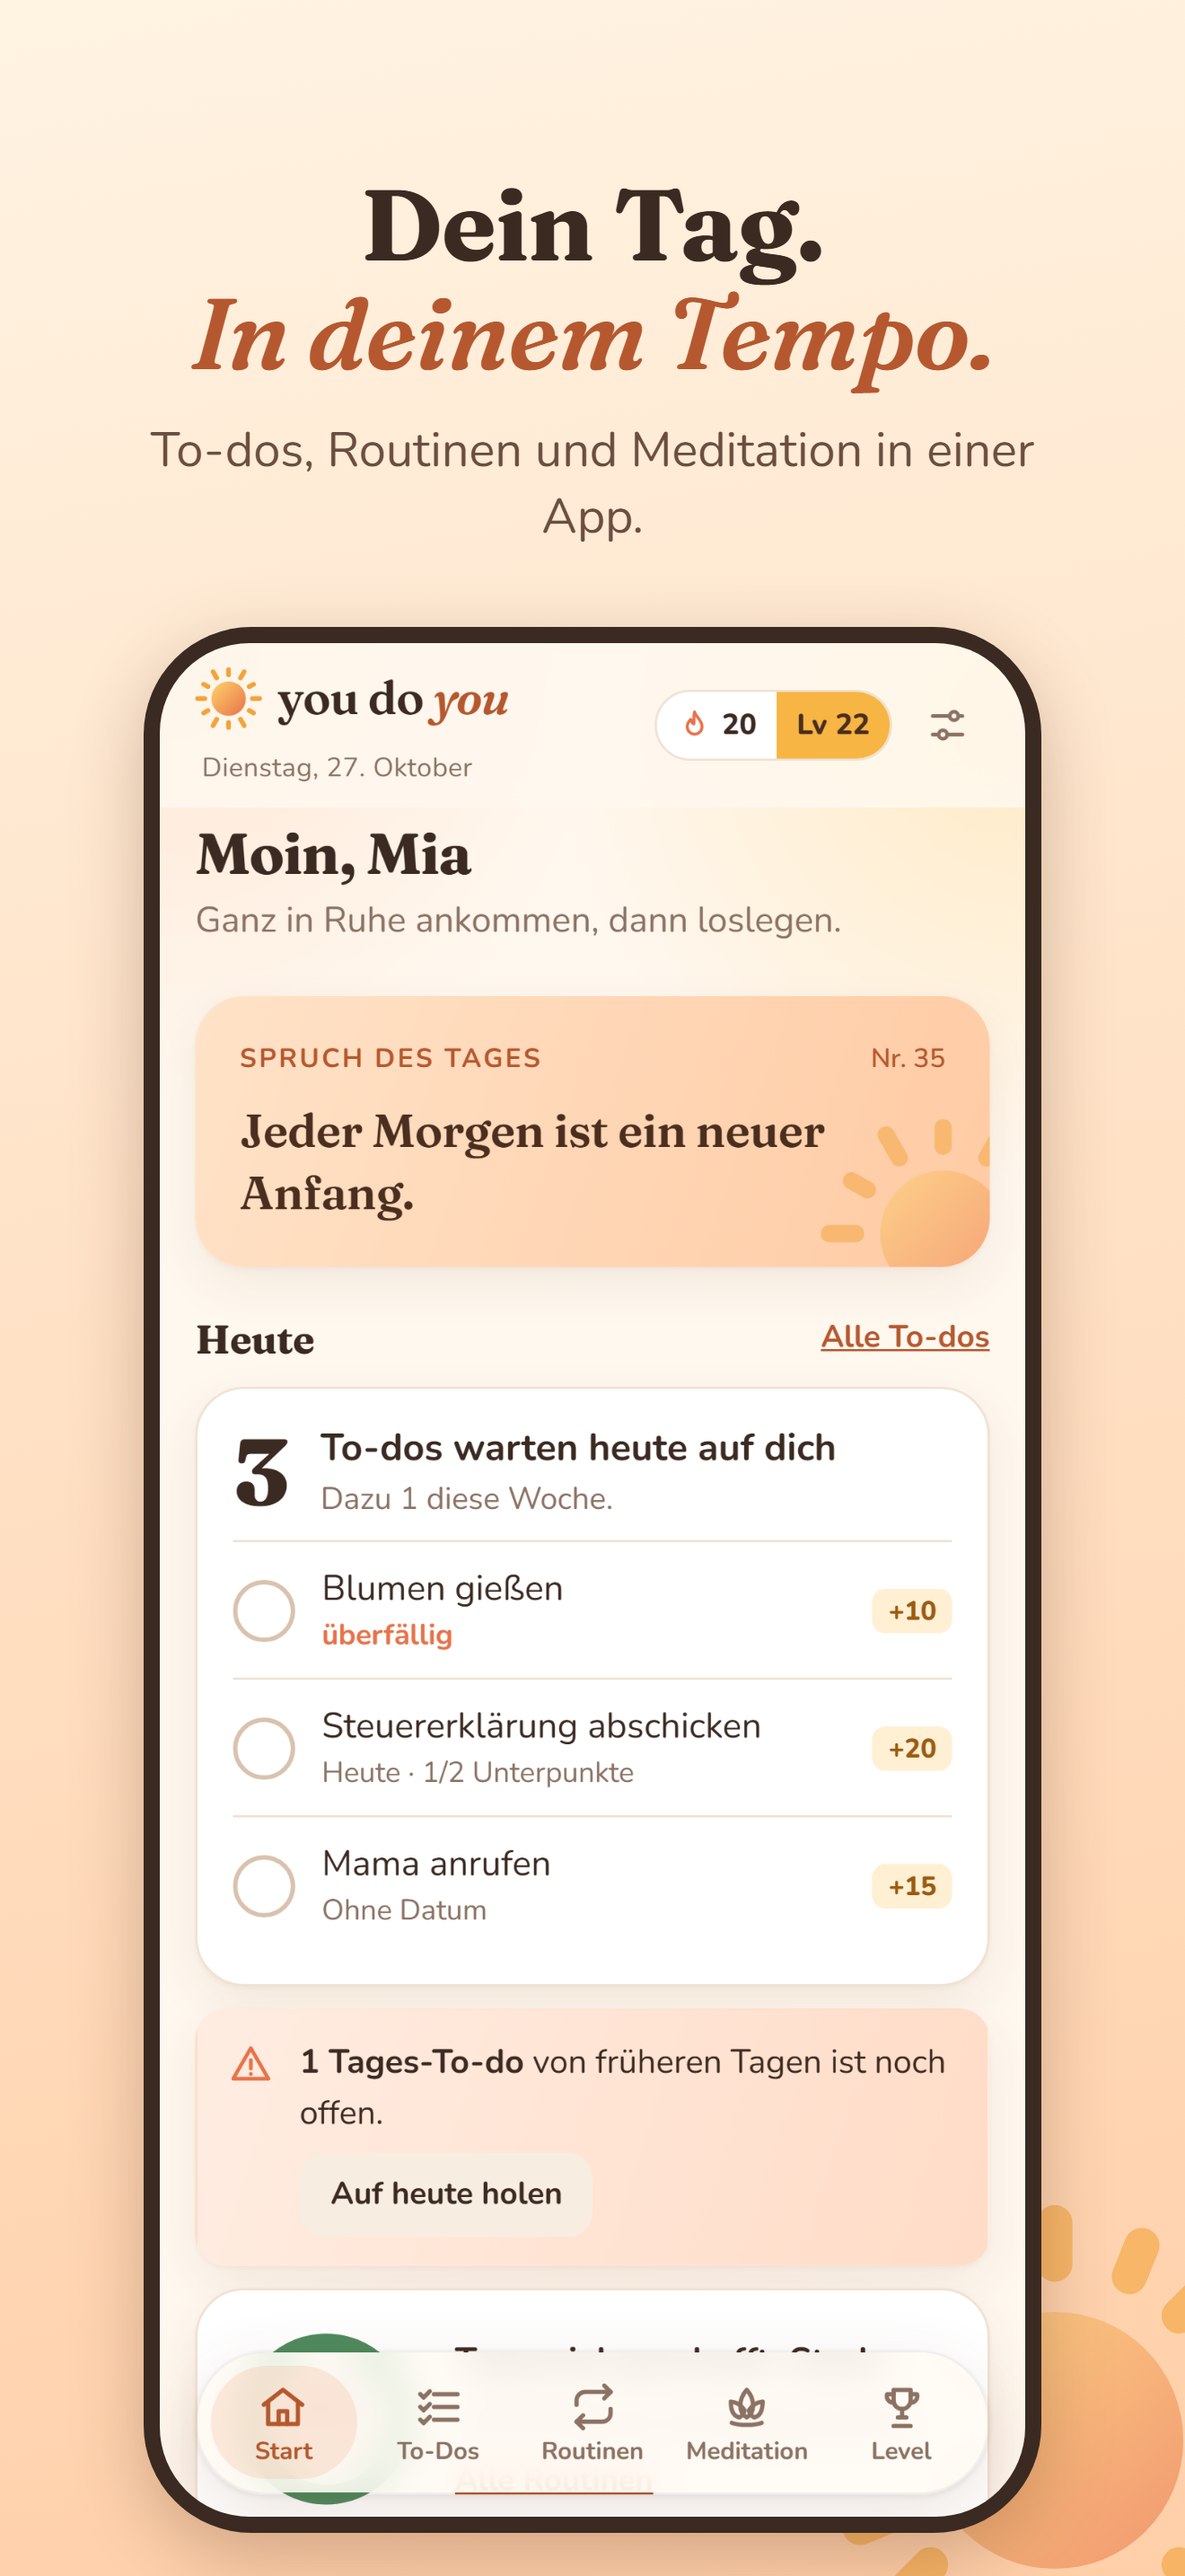
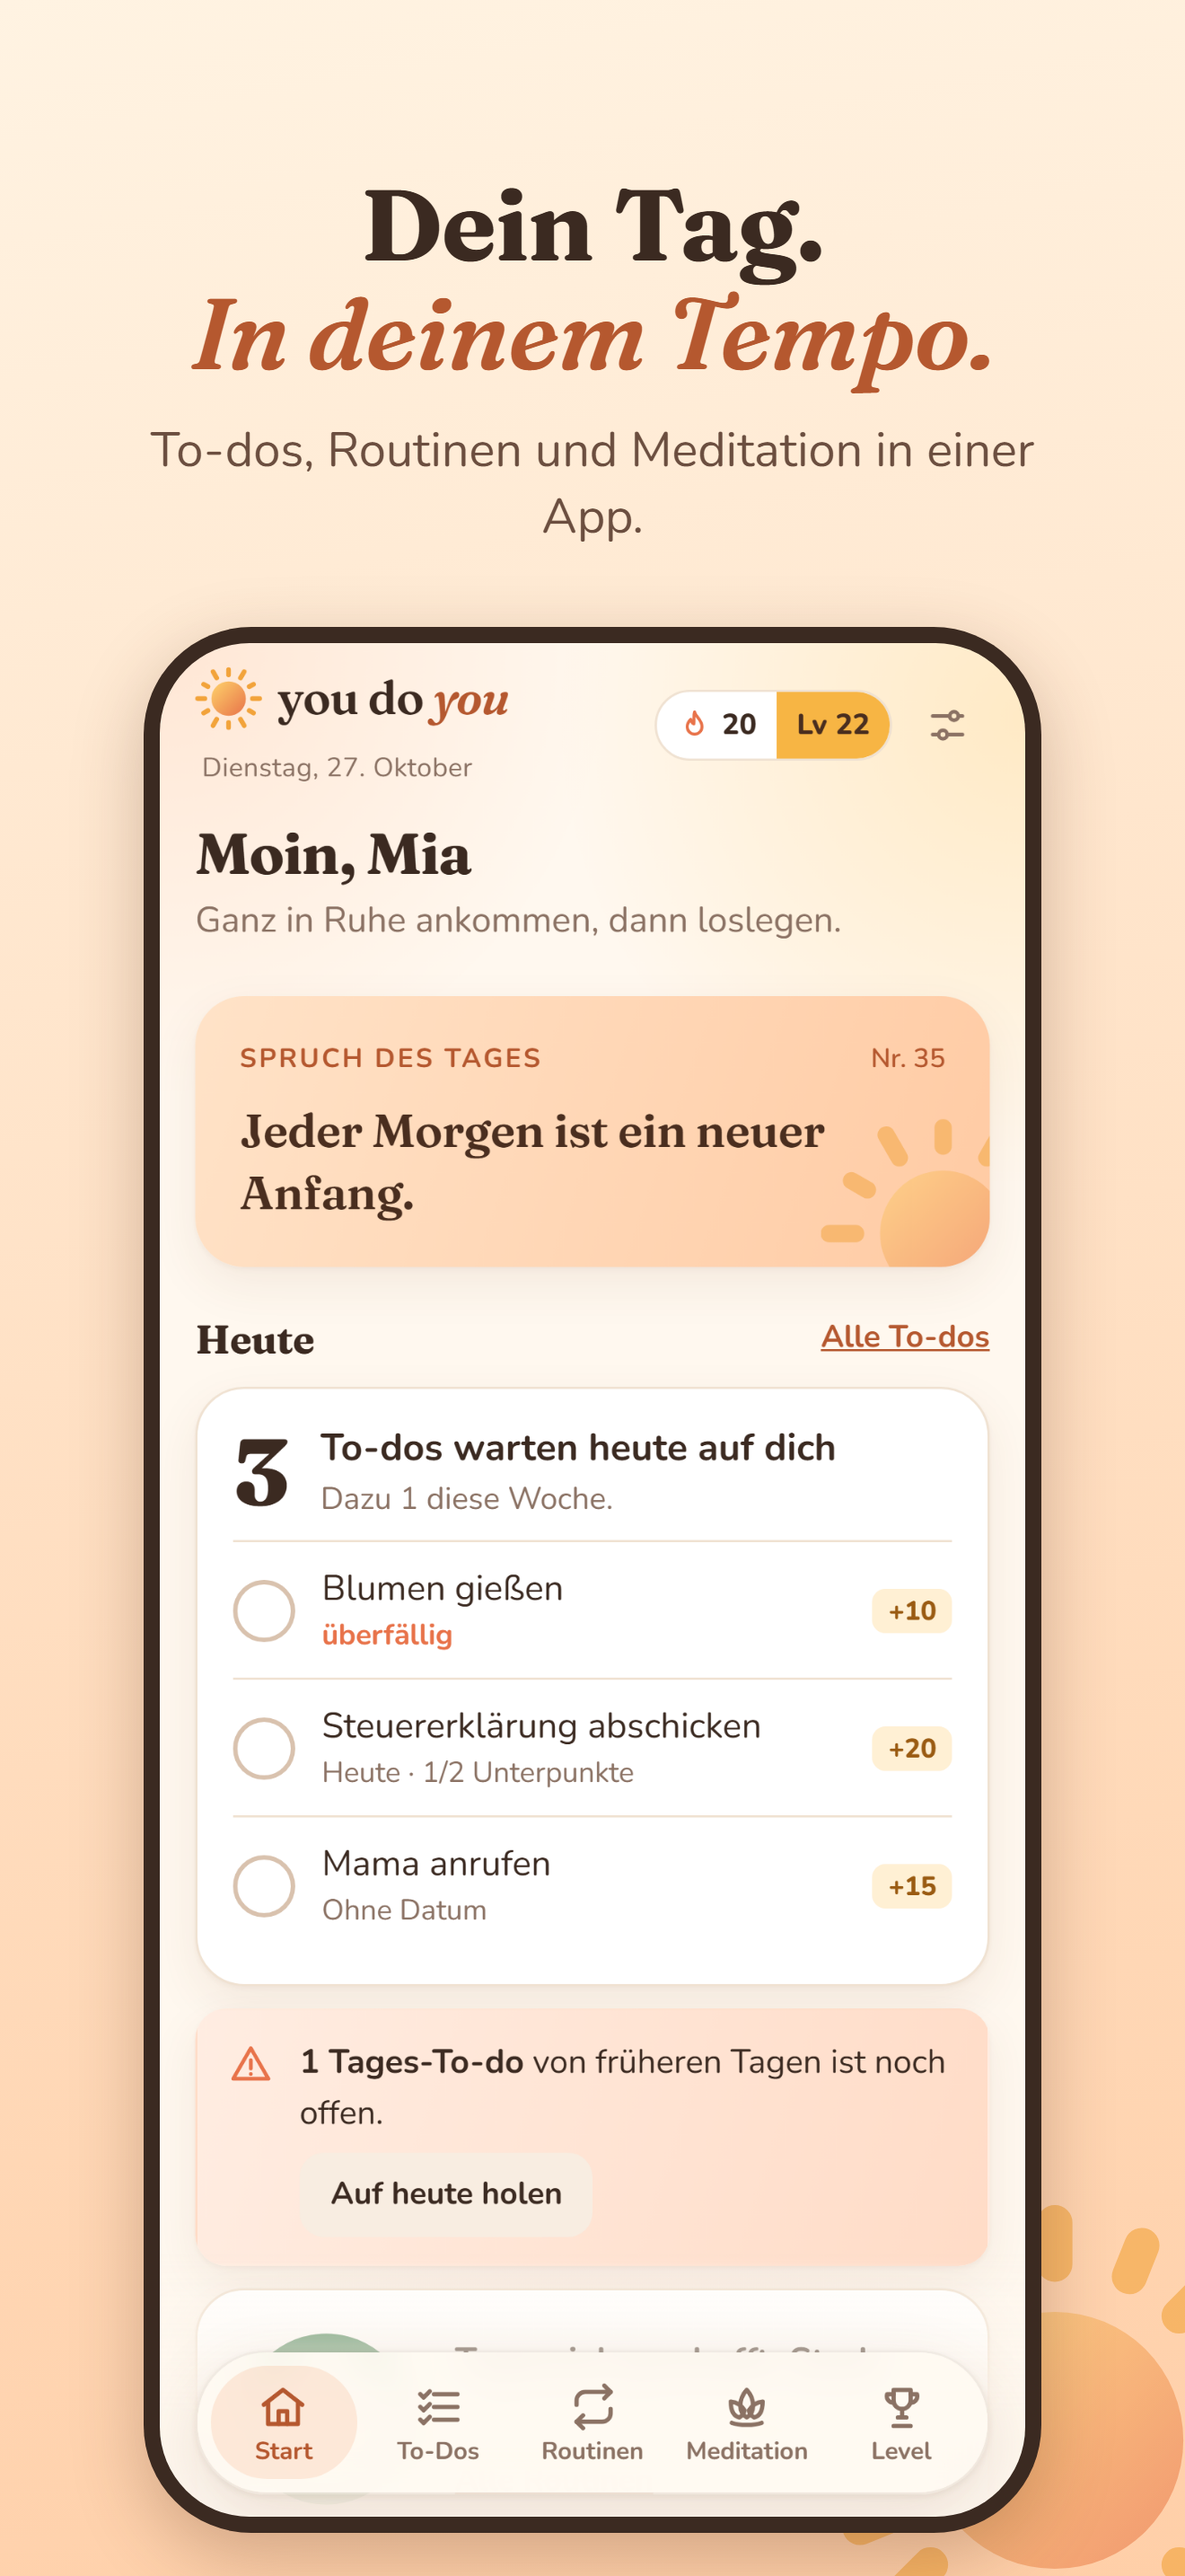
Polish the UI: clear header, bottom fade, illustrated empty states
- Top bar is clear at rest and turns frosted with a hairline once content
  scrolls under it.
- Content fades out above the floating tab bar instead of being cut off.
- Empty lists show a rising-sun illustration with centered text.
- Meditation: minus/plus sit right next to the big minute count; the
  separate stepper is gone.
- Session: a thin ring around the breathing sun fills up over the session.
- Store screenshots regenerated.

Changed region(s): [[0.7455, 0.2483, 0.8697, 0.3414], [0.2485, 0.962, 0.3106, 0.993], [0.2485, 0.8999, 0.3106, 0.931]]

diff --git a/src/features/shell/Shell.tsx b/src/features/shell/Shell.tsx
@@ -1,7 +1,9 @@
+import { LinearGradient } from 'expo-linear-gradient';
 import { router, usePathname } from 'expo-router';
-import type { ReactNode } from 'react';
+import { useEffect, type ReactNode } from 'react';
 import { useTranslation } from 'react-i18next';
-import { Pressable, ScrollView, View } from 'react-native';
+import { Pressable, StyleSheet, View } from 'react-native';
+import Animated, { Extrapolation, interpolate, useAnimatedScrollHandler, useAnimatedStyle } from 'react-native-reanimated';
 import { useSafeAreaInsets } from 'react-native-safe-area-context';
 import { useStore } from '../../data/AppStore';
 import { headerDate } from '../../i18n/format';
@@ -11,10 +13,17 @@ import { Glass, Logo } from '../../ui/graphics';
 import { Icon, type IconName } from '../../ui/Icon';
 import { useSheet } from '../../ui/overlays';
 import { IconButton } from '../../ui/primitives';
+import { pageScroll } from '../../ui/scroll';
 import { T } from '../../ui/Text';
 import { SettingsSheet } from '../settings/SettingsSheet';
 
 export const TOPBAR_H = 74;
+
+/** '#RRGGBB' with alpha, so fades end in the page color instead of transparent black. */
+function alpha(hex: string, a: number) {
+  const n = parseInt(hex.slice(1, 7), 16);
+  return `rgba(${n >> 16},${(n >> 8) & 255},${n & 255},${a})`;
+}
 
 export const TABS: { href: '/' | '/todos' | '/routines' | '/meditate' | '/level'; key: string; icon: IconName }[] = [
   { href: '/', key: 'home', icon: 'home' },
@@ -31,8 +40,13 @@ export function TopBar() {
   const { stats, today } = useStore();
   const sheet = useSheet();
   const cold = stats.streak === 0;
+  // Clear at rest, frosted with a hairline as soon as content slides under the bar.
+  const glassStyle = useAnimatedStyle(() => ({ opacity: interpolate(pageScroll.value, [0, 24], [0, 1], Extrapolation.CLAMP) }));
   return (
-    <Glass tone="top" style={{ position: 'absolute', top: 0, left: 0, right: 0, paddingTop: insets.top, zIndex: 20 }}>
+    <View style={{ position: 'absolute', top: 0, left: 0, right: 0, paddingTop: insets.top, zIndex: 20 }}>
+      <Animated.View pointerEvents="none" style={[StyleSheet.absoluteFill, glassStyle]}>
+        <Glass tone="top" style={[StyleSheet.absoluteFill, { borderBottomWidth: 1, borderColor: c.glassLine }]} />
+      </Animated.View>
       <View
         style={{
           height: TOPBAR_H,
@@ -72,7 +86,7 @@ export function TopBar() {
           <IconButton icon="sliders" label={t('top.settings')} onPress={() => sheet.open((close) => <SettingsSheet close={close} />, t('settings.title'))} />
         </View>
       </View>
-    </Glass>
+    </View>
   );
 }
 
@@ -117,10 +131,19 @@ export function TabBar() {
 
 /** Scrollable page column (max 600 px) under the glass bars, with an optional floating add button. */
 export function Screen({ children, fab }: { children: ReactNode; fab?: { label: string; a11y: string; onPress: () => void } }) {
+  const { c } = useTheme();
   const insets = useSafeAreaInsets();
+  const onScroll = useAnimatedScrollHandler((e) => {
+    pageScroll.value = e.contentOffset.y;
+  });
+  useEffect(() => {
+    pageScroll.value = 0;
+  }, []);
   return (
     <View style={{ flex: 1 }}>
-      <ScrollView
+      <Animated.ScrollView
+        onScroll={onScroll}
+        scrollEventThrottle={16}
         keyboardShouldPersistTaps="handled"
         contentContainerStyle={{
           width: '100%',
@@ -133,7 +156,14 @@ export function Screen({ children, fab }: { children: ReactNode; fab?: { label: 
         }}
       >
         {children}
-      </ScrollView>
+      </Animated.ScrollView>
+      {/* Content fades out above the floating tab bar instead of being cut off behind it. */}
+      <LinearGradient
+        pointerEvents="none"
+        colors={[alpha(c.bg, 0), alpha(c.bg, 0.94)]}
+        locations={[0, 0.6]}
+        style={{ position: 'absolute', left: 0, right: 0, bottom: 0, height: 118 + insets.bottom }}
+      />
       {fab ? <Fab {...fab} /> : null}
     </View>
   );

diff --git a/src/ui/graphics.tsx b/src/ui/graphics.tsx
@@ -2,7 +2,7 @@ import { BlurView } from 'expo-blur';
 import { useEffect, useId, type ReactNode } from 'react';
 import { Platform, StyleSheet, View, useWindowDimensions, type StyleProp, type ViewStyle } from 'react-native';
 import Animated, { useAnimatedStyle, useReducedMotion, useSharedValue, withTiming } from 'react-native-reanimated';
-import Svg, { Circle, Defs, Ellipse, G, Line, LinearGradient, RadialGradient, Stop } from 'react-native-svg';
+import Svg, { Circle, Defs, Ellipse, G, Line, LinearGradient, Path, RadialGradient, Stop } from 'react-native-svg';
 import { LinearGradient as ExpoLinearGradient } from 'expo-linear-gradient';
 import { useTheme } from '../theme/ThemeProvider';
 import { fonts } from '../theme/tokens';
@@ -55,6 +55,43 @@ export function SunMark({ size = 28, rays = true }: { size?: number; rays?: bool
         </G>
       ) : null}
       <Circle cx={12} cy={12} r={disc} fill={`url(#${id})`} />
+    </Svg>
+  );
+}
+
+const HILL = 'M0 70 C 30 58, 52 63, 72 66 S 116 59, 140 64';
+
+/** Empty-state picture: the sun rising behind a hill with a little sprout. `ground` matches the card behind it. */
+export function EmptyArt({ ground, width = 140 }: { ground?: string; width?: number }) {
+  const { c } = useTheme();
+  const id = 'rise' + useId().replace(/:/g, '');
+  const up = [200, 223, 246, 270, 294, 317, 340].map((d) => (d * Math.PI) / 180);
+  return (
+    <Svg width={width} height={(width * 90) / 140} viewBox="0 0 140 90" accessibilityElementsHidden importantForAccessibility="no-hide-descendants">
+      <Defs>
+        <LinearGradient id={id} x1="0" y1="0" x2="1" y2="1">
+          <Stop offset="0" stopColor="#FFD978" />
+          <Stop offset="1" stopColor={c.flame} />
+        </LinearGradient>
+        <RadialGradient id={id + 'g'} cx={70} cy={64} r={44} gradientUnits="userSpaceOnUse">
+          <Stop offset="0.4" stopColor={c.hazard} stopOpacity={0.3} />
+          <Stop offset="1" stopColor={c.hazard} stopOpacity={0} />
+        </RadialGradient>
+      </Defs>
+      <Circle cx={70} cy={64} r={44} fill={`url(#${id}g)`} />
+      <G stroke="#F2A33A" strokeWidth={3.4} strokeLinecap="round">
+        {up.map((a, i) => (
+          <Line key={i} x1={70 + Math.cos(a) * 27} y1={64 + Math.sin(a) * 27} x2={70 + Math.cos(a) * (i % 2 ? 33 : 36)} y2={64 + Math.sin(a) * (i % 2 ? 33 : 36)} />
+        ))}
+      </G>
+      <Circle cx={70} cy={64} r={20} fill={`url(#${id})`} />
+      <Path d={`${HILL} V90 H0 Z`} fill={ground ?? c.surface} />
+      <Path d={HILL} fill="none" stroke={c.lineStrong} strokeWidth={2} strokeLinecap="round" />
+      <G>
+        <Line x1={106} y1={62} x2={106} y2={50} stroke={c.go} strokeWidth={2.4} strokeLinecap="round" />
+        <Path d="M106 55 C 100 55, 97 51, 98 47 C 102 47, 106 50, 106 55 Z" fill={c.go} />
+        <Path d="M106 52 C 112 52, 115 48, 114 44 C 110 44, 106 47, 106 52 Z" fill={c.go} opacity={0.8} />
+      </G>
     </Svg>
   );
 }
@@ -206,7 +243,7 @@ export function Backdrop() {
 /* ---------- glass ---------- */
 
 /** Translucent surface with blur behind it. Android gets the opaque fallback (blur there is experimental). */
-export function Glass({ tone, style, children }: { tone: 'bar' | 'top'; style?: StyleProp<ViewStyle>; children: ReactNode }) {
+export function Glass({ tone, style, children }: { tone: 'bar' | 'top'; style?: StyleProp<ViewStyle>; children?: ReactNode }) {
   const { c, dark } = useTheme();
   const canBlur = Platform.OS !== 'android';
   const bg = canBlur ? (tone === 'bar' ? c.glass : c.glassTop) : c.glassSolid;

diff --git a/src/features/meditate/MeditateScreen.tsx b/src/features/meditate/MeditateScreen.tsx
@@ -9,7 +9,7 @@ import { useTheme } from '../../theme/ThemeProvider';
 import { fonts } from '../../theme/tokens';
 import { Ring } from '../../ui/graphics';
 import { Icon } from '../../ui/Icon';
-import { Button, Card, Chip, SectionHead, Segmented, Stepper, Switch, TintCard } from '../../ui/primitives';
+import { Button, Card, Chip, IconButton, SectionHead, Segmented, Stepper, Switch, TintCard } from '../../ui/primitives';
 import { T } from '../../ui/Text';
 import { Screen } from '../shell/Shell';
 import { MOODS } from './SessionScreen';
@@ -77,18 +77,21 @@ export default function MeditateScreen() {
       <MindfulCard />
 
       <Card style={{ gap: 16 }}>
-        <View style={{ alignItems: 'center', gap: 2 }}>
-          <T style={{ fontFamily: fonts.displayHeavy, fontSize: 56, lineHeight: 62, color: c.ink }}>{med.minutes}</T>
-          <T v="smallBold" muted>
-            {t('meditate.minutes', { count: med.minutes })} · +{Math.min(60, med.minutes) * MED_XP_PER_MIN} XP
-          </T>
+        <View style={{ flexDirection: 'row', alignItems: 'center', justifyContent: 'center', gap: 18 }}>
+          <IconButton icon="minus" size={46} color={c.ink} label={t('common.less')} disabled={med.minutes <= 1} onPress={() => setMed({ minutes: med.minutes - 1 })} style={{ borderRadius: 23, backgroundColor: c.track }} />
+          <View style={{ alignItems: 'center', gap: 2, minWidth: 128 }}>
+            <T style={{ fontFamily: fonts.displayHeavy, fontSize: 60, lineHeight: 66, color: c.ink, fontVariant: ['tabular-nums'] }}>{med.minutes}</T>
+            <T v="smallBold" muted>
+              {t('meditate.minutes', { count: med.minutes })} · +{Math.min(60, med.minutes) * MED_XP_PER_MIN} XP
+            </T>
+          </View>
+          <IconButton icon="plus" size={46} color={c.ink} label={t('common.more')} disabled={med.minutes >= 120} onPress={() => setMed({ minutes: med.minutes + 1 })} style={{ borderRadius: 23, backgroundColor: c.track }} />
         </View>
         <View style={{ flexDirection: 'row', flexWrap: 'wrap', gap: 8, justifyContent: 'center' }}>
           {PRESETS.map((m) => (
             <Chip key={m} label={`${m}`} selected={med.minutes === m} onPress={() => setMed({ minutes: m })} />
           ))}
         </View>
-        <Stepper value={med.minutes} min={1} max={120} onChange={(v) => setMed({ minutes: v })} decLabel={t('common.less')} incLabel={t('common.more')} style={{ alignSelf: 'center' }} />
         <View style={{ gap: 8 }}>
           <T v="tiny" muted style={{ fontFamily: fonts.bodyBold }}>
             {t('meditate.breathing')}

diff --git a/src/features/meditate/SessionScreen.tsx b/src/features/meditate/SessionScreen.tsx
@@ -4,8 +4,9 @@ import { LinearGradient } from 'expo-linear-gradient';
 import { router, useLocalSearchParams } from 'expo-router';
 import { useCallback, useEffect, useRef, useState } from 'react';
 import { useTranslation } from 'react-i18next';
-import { Platform, Pressable, View } from 'react-native';
+import { Platform, Pressable, StyleSheet, View } from 'react-native';
 import { useSafeAreaInsets } from 'react-native-safe-area-context';
+import Svg, { Circle } from 'react-native-svg';
 import { useStore } from '../../data/AppStore';
 import { clock } from '../../game/breath';
 import { todayKey } from '../../game/dates';
@@ -21,6 +22,31 @@ import { Breath } from './Breath';
 
 export const MOODS = ['😣', '🙁', '😐', '🙂', '😊'];
 const END_ID = 'session-end';
+
+/** Thin ring around the breathing sun that fills up over the session. */
+function SessionRing({ size, pct, color, track }: { size: number; pct: number; color: string; track: string }) {
+  const r = size / 2 - 4;
+  const circ = 2 * Math.PI * r;
+  const p = Math.max(0, Math.min(1, pct));
+  return (
+    <Svg width={size} height={size} style={StyleSheet.absoluteFill} accessibilityElementsHidden importantForAccessibility="no-hide-descendants">
+      <Circle cx={size / 2} cy={size / 2} r={r} fill="none" stroke={track} strokeWidth={4} />
+      {p > 0 ? (
+        <Circle
+          cx={size / 2}
+          cy={size / 2}
+          r={r}
+          fill="none"
+          stroke={color}
+          strokeWidth={4}
+          strokeLinecap="round"
+          strokeDasharray={`${(circ * p).toFixed(1)} ${circ.toFixed(1)}`}
+          transform={`rotate(-90 ${size / 2} ${size / 2})`}
+        />
+      ) : null}
+    </Svg>
+  );
+}
 
 type Status = 'running' | 'paused' | 'done';
 
@@ -130,7 +156,10 @@ export default function SessionScreen() {
                 </T>
               ) : null}
             </View>
-            <Breath pattern={med.pattern} elapsedMs={elapsed} running={status === 'running'} size={250} />
+            <View style={{ width: 296, height: 296, alignItems: 'center', justifyContent: 'center' }}>
+              <SessionRing size={296} pct={elapsed / total} color={c.accent} track={c.track} />
+              <Breath pattern={med.pattern} elapsedMs={elapsed} running={status === 'running'} size={240} />
+            </View>
             <View style={{ alignItems: 'center', gap: 16, width: '100%' }}>
               <Pressable
                 onPress={status === 'running' ? pause : resume}

diff --git a/src/ui/primitives.tsx b/src/ui/primitives.tsx
@@ -4,6 +4,7 @@ import { Pressable, StyleSheet, View, type PressableProps, type StyleProp, type 
 import Animated, { useAnimatedStyle, useReducedMotion, useSharedValue, withTiming } from 'react-native-reanimated';
 import { OnBlack, useTheme } from '../theme/ThemeProvider';
 import { fonts, radius, tintColors, type Tint } from '../theme/tokens';
+import { EmptyArt } from './graphics';
 import { Icon, type IconName } from './Icon';
 import { T } from './Text';
 
@@ -372,12 +373,15 @@ export function SectionHead({ title, right }: { title: string; right?: ReactNode
 export function Empty({ title, text, children }: { title: string; text: string; children?: ReactNode }) {
   const { c } = useTheme();
   return (
-    <View style={{ gap: 12, padding: 20, borderWidth: 1.5, borderStyle: 'dashed', borderColor: c.lineStrong, borderRadius: radius.r }}>
-      <T v="bold">{title}</T>
-      <T v="body" muted style={{ fontSize: 15 }}>
+    <View style={{ alignItems: 'center', gap: 10, paddingHorizontal: 20, paddingTop: 18, paddingBottom: 22, backgroundColor: c.surface, borderWidth: 1, borderColor: c.line, borderRadius: radius.r, boxShadow: c.shadow }}>
+      <EmptyArt ground={c.surface} width={156} />
+      <T v="h2" style={{ textAlign: 'center' }}>
+        {title}
+      </T>
+      <T v="body" muted style={{ fontSize: 15, textAlign: 'center', maxWidth: 420 }}>
         {text}
       </T>
-      {children}
+      {children ? <View style={{ alignSelf: 'stretch', alignItems: 'center', marginTop: 4 }}>{children}</View> : null}
     </View>
   );
 }

diff --git a/src/features/routines/RoutinesScreen.tsx b/src/features/routines/RoutinesScreen.tsx
@@ -67,7 +67,7 @@ export default function RoutinesScreen() {
         </View>
       ) : (
         <Empty title={t(`routines.empty.${scope}`)} text={t('routines.emptyText')}>
-          <View style={{ flexDirection: 'row', flexWrap: 'wrap', gap: 8 }}>
+          <View style={{ flexDirection: 'row', flexWrap: 'wrap', justifyContent: 'center', gap: 8 }}>
             {SUGGESTIONS.map((s) => {
               const title = t(`routines.suggest.${s.key}`);
               return (

diff --git a/src/ui/scroll.ts b/src/ui/scroll.ts
@@ -1,0 +1,4 @@
+import { makeMutable } from 'react-native-reanimated';
+
+/** Scroll offset of the visible page. The top bar shows its frosted glass only once content scrolls under it. */
+export const pageScroll = makeMutable(0);
